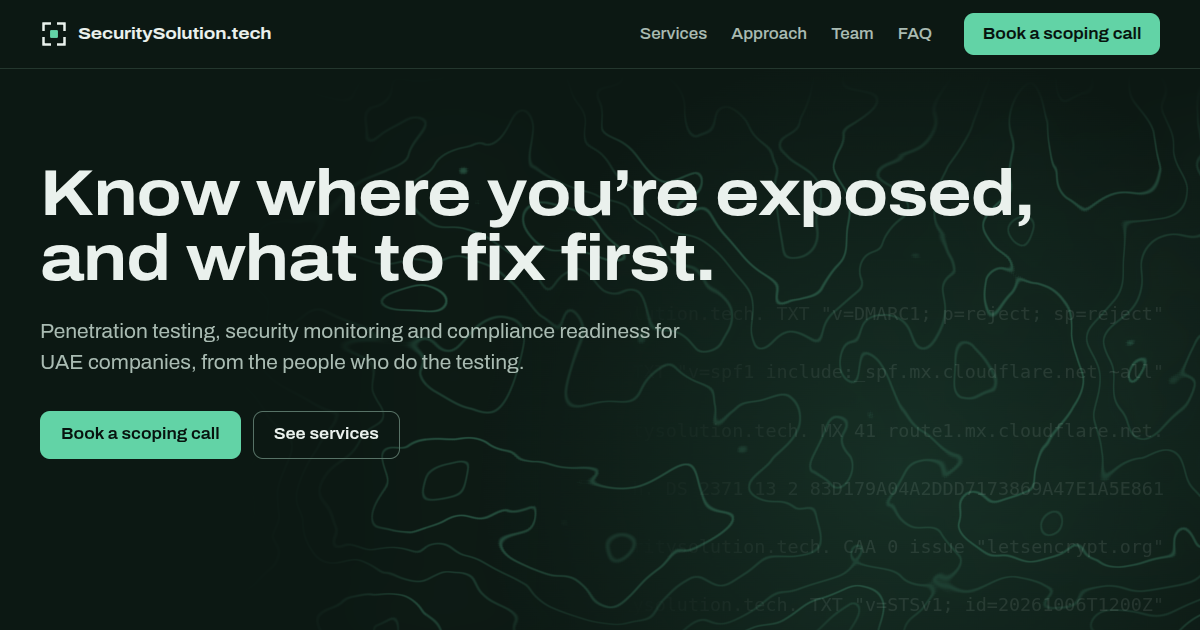
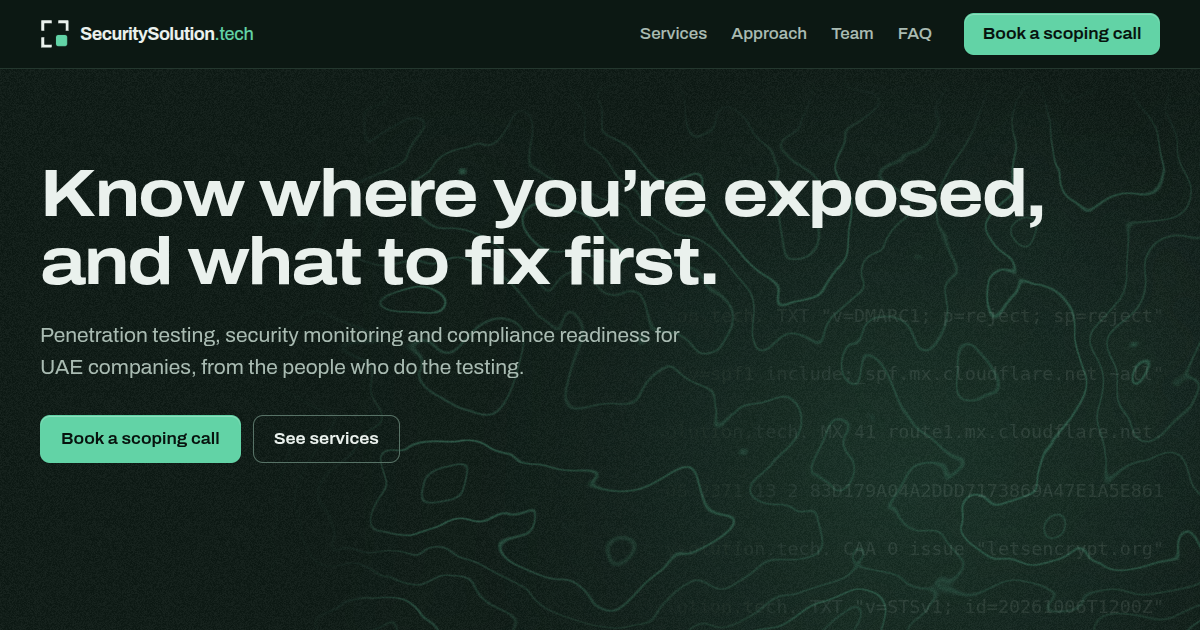
Materiality: film grain on the ink bands, keyed buttons, larger hero type, more air
A static grain tile sits over the hero, process, contact and footer bands at
five percent, so the dark surfaces read as material rather than fill. Primary
buttons carry a hairline of light along the top edge, lift on hover with a
drop tinted to the accent, and press down. Secondary buttons frost over the
ink. The hero headline grows to 4.5rem on wide screens with tighter tracking,
sections breathe up to 7rem, and the Open Graph card is re-rendered with the
new mark.

diff --git a/src/styles/global.css b/src/styles/global.css
@@ -54,7 +54,7 @@
   --step-1: 1.3125rem;
   --step-2: 1.625rem;
   --step-3: clamp(1.75rem, 1.35rem + 1.6vw, 2.375rem);
-  --step-4: clamp(2.35rem, 1.45rem + 3.6vw, 4rem);
+  --step-4: clamp(2.35rem, 1.45rem + 3.6vw, 4.5rem);
 
   --s-1: 0.25rem;
   --s-2: 0.5rem;
@@ -309,13 +309,13 @@ kbd {
 }
 
 .section {
-  padding-block: clamp(3.5rem, 2.25rem + 4vw, 5.5rem);
+  padding-block: clamp(3.5rem, 2rem + 5vw, 7rem);
 }
 
 .section-head {
   display: grid;
   gap: var(--s-4);
-  margin-bottom: clamp(2rem, 1.5rem + 2vw, 3.5rem);
+  margin-bottom: clamp(2rem, 1.5rem + 2.5vw, 4rem);
 }
 
 .section-head p {
@@ -357,13 +357,43 @@ kbd {
   transform: translateY(1px);
 }
 
+/* A hairline of light along the top and a tinted drop, so the button reads as a key, not a flat fill. */
 .btn-primary {
   background: var(--accent);
   color: var(--on-accent);
+  box-shadow:
+    inset 0 1px 0 rgb(255 255 255 / 0.28),
+    0 1px 2px rgb(6 16 12 / 0.18);
 }
 
 .btn-primary:hover {
   background: var(--accent-hover);
+  transform: translateY(-1px);
+  box-shadow:
+    inset 0 1px 0 rgb(255 255 255 / 0.28),
+    0 10px 24px -12px color-mix(in srgb, var(--accent) 70%, transparent);
+}
+
+.btn-primary:active {
+  transform: translateY(1px);
+  box-shadow: inset 0 1px 0 rgb(255 255 255 / 0.1);
+}
+
+.ink .btn-secondary {
+  -webkit-backdrop-filter: blur(8px);
+  backdrop-filter: blur(8px);
+}
+
+/* Film grain for the ink bands: a static tile, so it costs one cached bitmap. */
+.grain::after {
+  content: '';
+  position: absolute;
+  inset: 0;
+  z-index: -1;
+  background: url('/noise.png');
+  background-size: 128px 128px;
+  opacity: 0.05;
+  pointer-events: none;
 }
 
 .btn-secondary {
